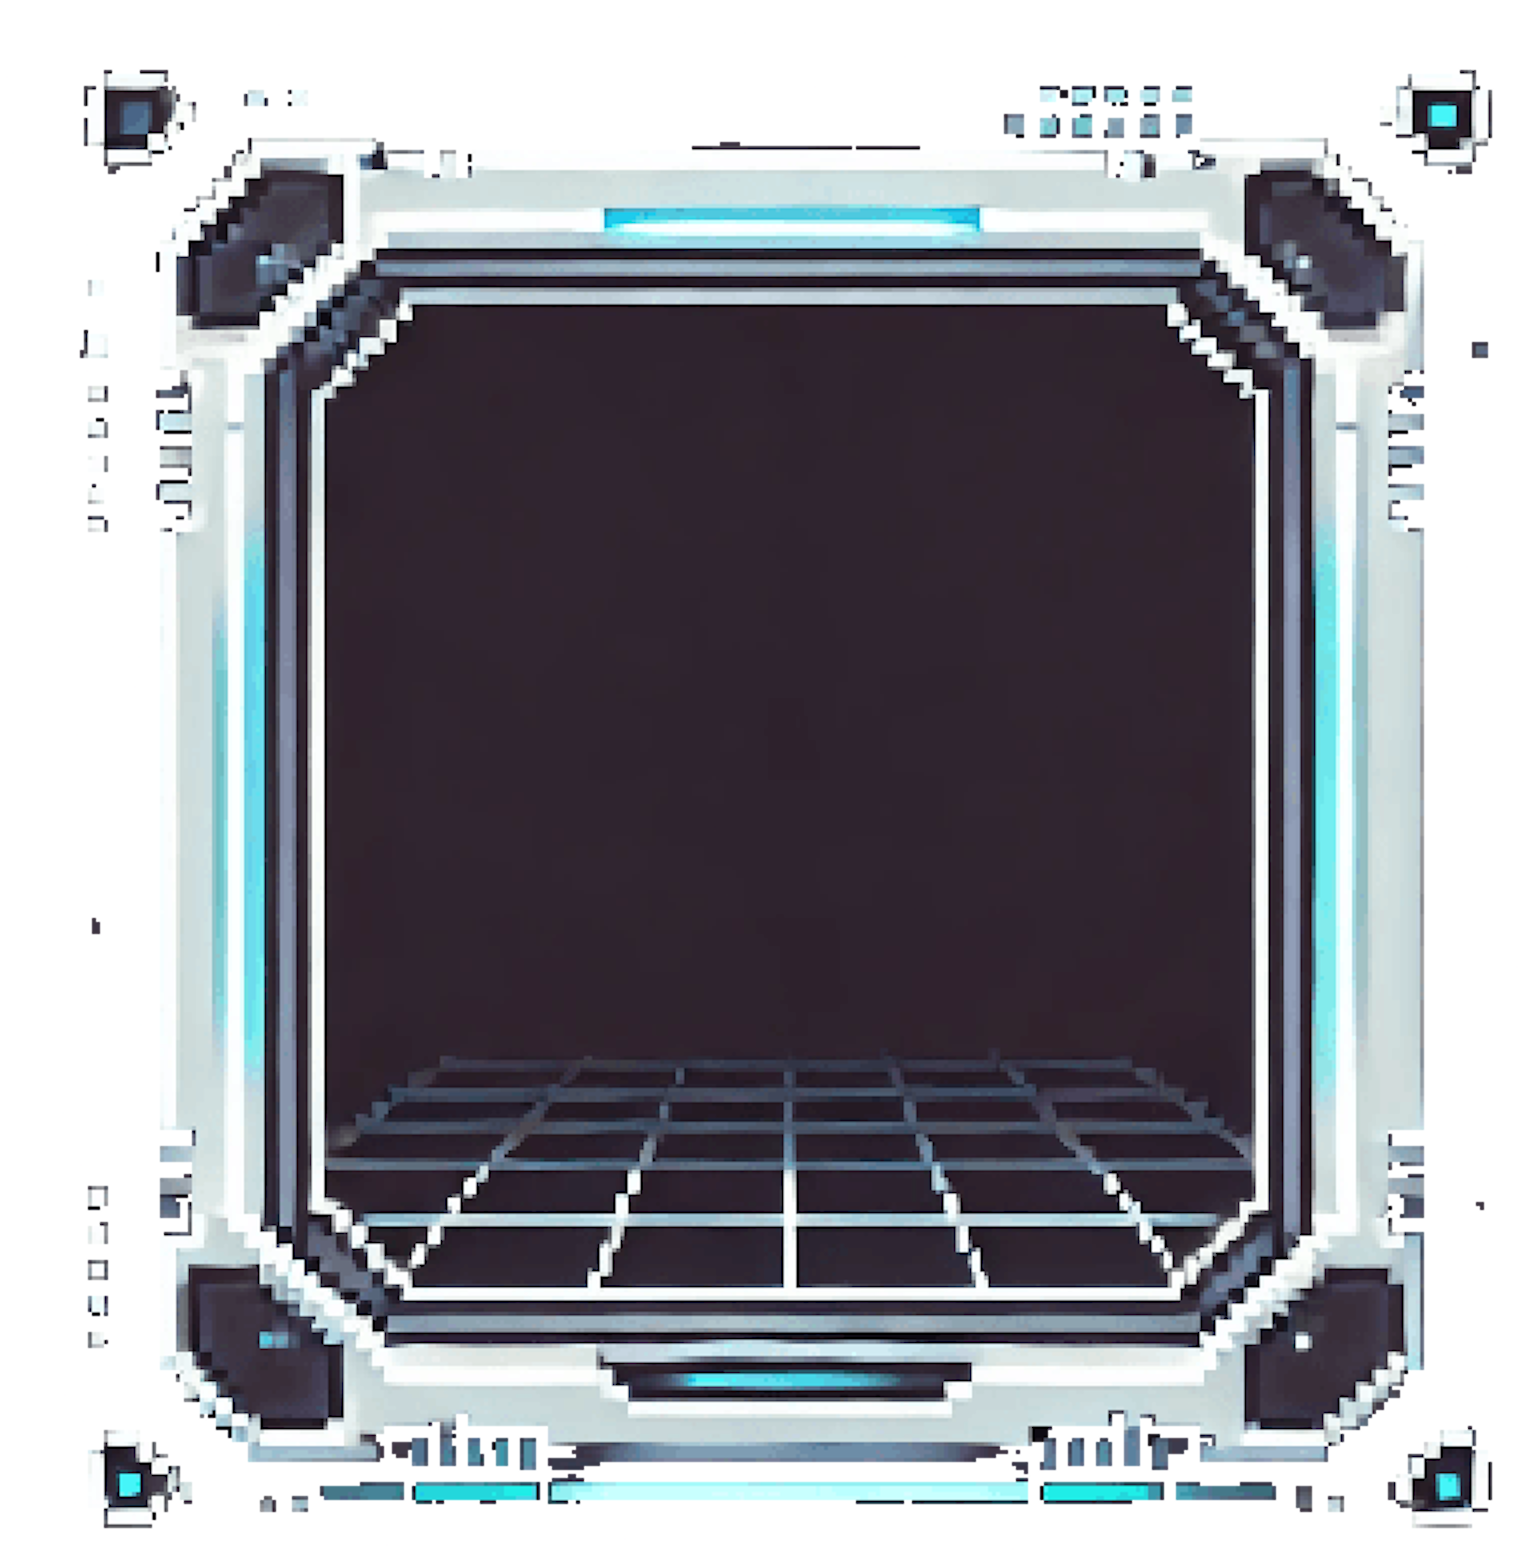
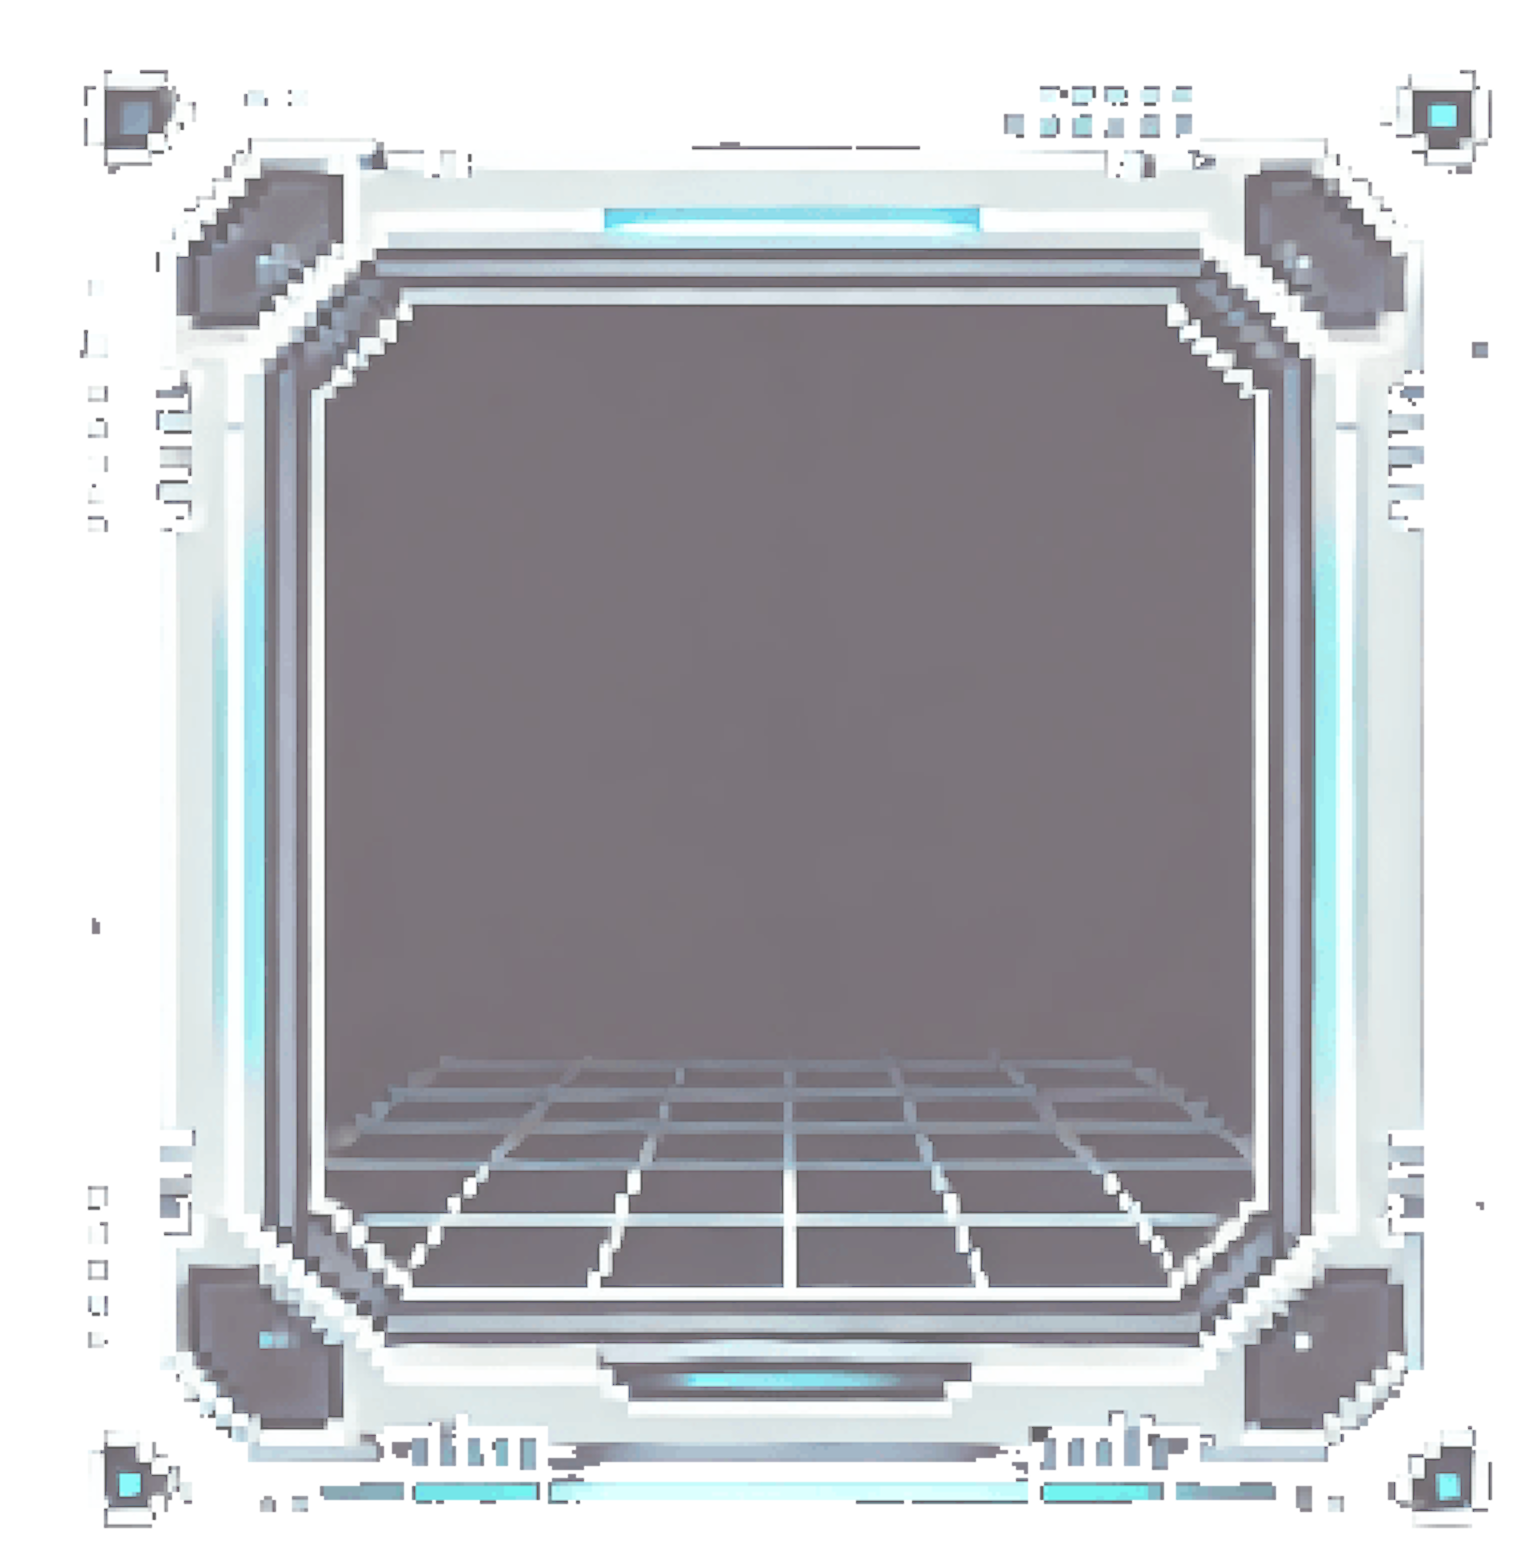
change opacity images

diff --git a/scripts.js b/scripts.js
@@ -26,11 +26,6 @@ let timers =  {
 }
 const delayBeforeHiding = 1000; // 1s
 
-merenPortrait.src = assets.meren.portraitOn;
-merenFrame.src = assets.meren.frameOn;
-gardokPortrait.src = assets.gardok.portraitOn;
-gardokFrame.src = assets.gardok.frameOn;
-
 (async () => {
     try {
         // Connexion à OBS
@@ -69,22 +64,13 @@ function handleAudioLevel(levelDb, portraitElement, frameElement, asset, timer) 
             timer = null;
         }
 
-        portraitElement.classList.add("active");
-        portraitElement.classList.remove("inactive");
-        frameElement.classList.add("active");
-        frameElement.classList.remove("inactive");
-
-        //portraitElement.src = asset.portraitOn;
-        //frameElement.src = asset.frameOn;
+        portraitElement.src = asset.portraitOn;
+        frameElement.src = asset.frameOn;
     } else {
         if (!timer) {
             timer = setTimeout(() => {
-                //portraitElement.src = asset.portraitOff;
-                //frameElement.src = asset.frameOff;
-                portraitElement.classList.add("inactive");
-                portraitElement.classList.remove("active");
-                frameElement.classList.add("inactive");
-                frameElement.classList.remove("active");
+                portraitElement.src = asset.portraitOff;
+                frameElement.src = asset.frameOff;
                 timer = null;
             }, delayBeforeHiding);
         }

diff --git a/index.html b/index.html
@@ -10,14 +10,14 @@
   <div class="overlay">
     <!-- Portrait et cadre pour Meren -->
     <div id="meren" class="frame-container">
-      <img id="meren-frame" class="frame inactive" src="assets/frame_on.png" alt="Frame Meren">
-      <img id="meren-portrait" class="portrait inactive" src="assets/portrait_meren_on.png" alt="Portrait Meren">
+      <img id="meren-frame" class="frame" src="assets/frame_off.png" alt="Frame Meren">
+      <img id="meren-portrait" class="portrait" src="assets/portrait_meren_off.png" alt="Portrait Meren">
     </div>
 
     <!-- Portrait et cadre pour Gardok -->
     <div id="gardok" class="frame_container">
-      <img id="gardok-frame" class="frame inactive" src="assets/frame_on.png" alt="Frame Gardok">
-      <img id="gardok-portrait" class="portrait inactive" src="assets/portrait_gardok_on.png" alt="Portrait Gardok">
+      <img id="gardok-frame" class="frame" src="assets/frame_off.png" alt="Frame Gardok">
+      <img id="gardok-portrait" class="portrait" src="assets/portrait_gardok_off.png" alt="Portrait Gardok">
     </div>
 
   </div>

diff --git a/style.css b/style.css
@@ -33,7 +33,6 @@ body {
   width: 100%;
   height: 100%;
   z-index: 1;
-  transition: opacity 0.1s ease-in-out;
 }
 
 .portrait {
@@ -43,13 +42,4 @@ body {
   top: 5%;
   left: 5%;
   z-index: 2;
-  transition: opacity 0.1s ease-in-out;
-}
-
-.inactive {
-  opacity: 0.5;
-}
-
-.active {
-  opacity: 1;
 }
